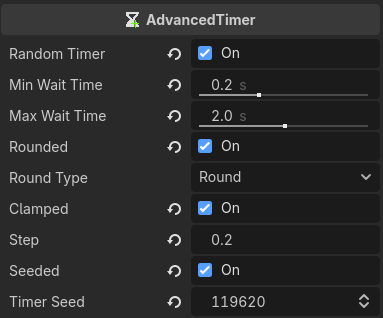
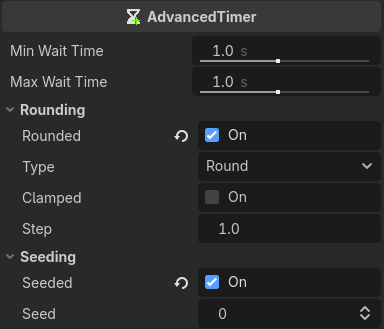
Read Changelog 2.0.0

diff --git a/CHANGELOG.md b/CHANGELOG.md
@@ -2,35 +2,59 @@
 
 All changes to this project will be documented in this file.
 
-This project adheres to [Semantic Versioning](https://semver.org/spec/v2.0.0.html)
+This project adheres to [Semantic Versioning](https://semver.org/spec/v2.0.0.html).
+
+## [2.0.0] - 2026-05-23
+
+## Added
+
+- Grouped Properties, making it easier to tell what belongs together.
+
+## Changed
+
+- `start_random()` now calling `start()` with the `super` keyword.
+- Randomized timers now being rounded up to 3 decimal places.
+
+## Fixed
+
+- `start_random()` by reusing the arguments given during its initial call
+
+## Deprecated
+
+- `start()` due to limitations, if you want to use this class as a normal timer,
+set **Min Wait Time** and **Max Wait Time** to the same values.
+
+## Removed
+
+- **Random Timer** due to deprecating `start()`.
 
 ## [1.1.0] - 2026-05-23
 
 ### Added
 
-- Function arguments for `start_random()`
-  - If none are provided, the timer will start a timer between **Min Wait Time** and **Max Wait Time**
-- Rounded randomness
+- Function arguments for `start_random()`.
+  - If none are provided, the timer will start a timer between **Min Wait Time** and **Max Wait Time**.
+- Rounded randomness.
   - Three options available: Floor, Round, Ceil
-    - Control the direction of the rounding
-  - Clamped rounding
-    - Prevent the rounded number to go out of bounds of the defined **Min Wait Time** and **Max Wait Time**
-  - Step
-    - Level of Steps the rounding should do
+    - Control the direction of the rounding.
+  - Clamped rounding.
+    - Prevent the rounded number to go out of bounds of the defined **Min Wait Time** and **Max Wait Time**.
+  - Step.
+    - Level of Steps the rounding should do.
 
-Note that **Wait Time** and **Step** will never go below `0.001`
+Note that **Wait Time** and **Step** will never go below `0.001`.
 
 ### Changed
 
-- `start_random()` will no longer do an early return when **Random Timer** is set to **false**
-- Screenshot of the inspector window
+- `start_random()` will no longer do an early return when **Random Timer** is set to **false**.
+- Screenshot of the inspector window.
 
 ### Fixed
 
-- Alt text of the icon in the README.md
+- Alt text of the icon in the README.md.
 
 ## [1.0.0] - 2026-05-23
 
 ### Added
 
-- This file
+- This file.
